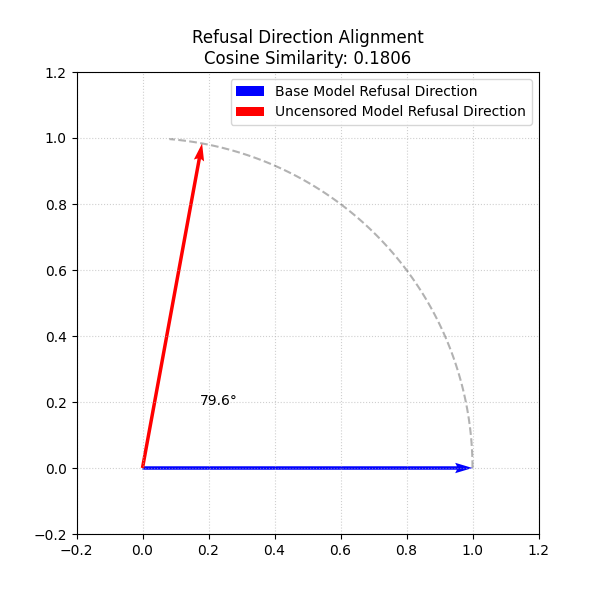
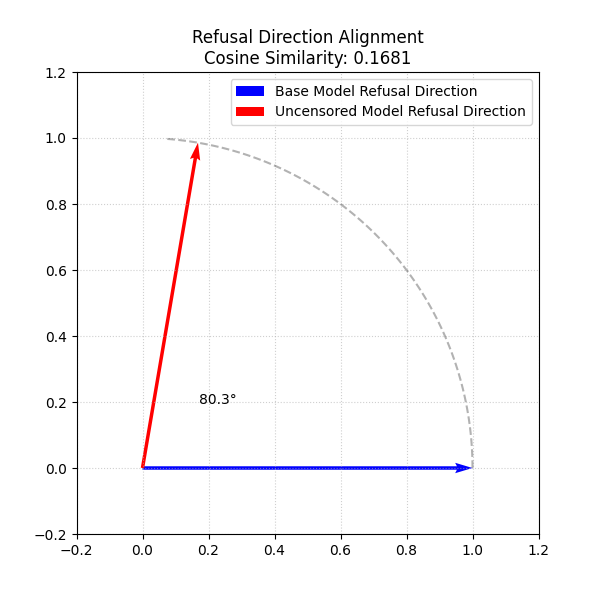
trained on N=260, moved vis into compare file

diff --git a/compare_refusal_directions.py b/compare_refusal_directions.py
@@ -1,37 +1,83 @@
 import torch
 import os
+import matplotlib.pyplot as plt
+import numpy as np
 
 def main():
     base_model_dir = "pipeline/runs/llama-2-7b-chat-hf/direction.pt"
     uncensored_model_dir = "pipeline/runs/llama2_7b_chat_uncensored/direction.pt"
+    output_image = "direction_comparison.png"
 
     print(f"Loading base refusal direction from: {base_model_dir}")
     if not os.path.exists(base_model_dir):
         print(f"Error: File not found: {base_model_dir}")
         return
-    base_direction = torch.load(base_model_dir)
+    base_direction = torch.load(base_model_dir, map_location='cpu')
 
     print(f"Loading uncensored refusal direction from: {uncensored_model_dir}")
     if not os.path.exists(uncensored_model_dir):
         print(f"Error: File not found: {uncensored_model_dir}")
         return
-    uncensored_direction = torch.load(uncensored_model_dir)
-
+    uncensored_direction = torch.load(uncensored_model_dir, map_location='cpu')
+    
     # Ensure they are on the same device and type
     device = torch.device("cpu")
     base_direction = base_direction.to(device)
     uncensored_direction = uncensored_direction.to(device)
-    
+
     # Check shapes
     if base_direction.shape != uncensored_direction.shape:
         print(f"Warning: Shapes mismatch: {base_direction.shape} vs {uncensored_direction.shape}")
         return
 
+    # Normalize vectors
+    base_direction = base_direction / base_direction.norm()
+    uncensored_direction = uncensored_direction / uncensored_direction.norm()
+
     # Compute cosine similarity
     # Dim=0 because they are 1D vectors [d_model]
-    similarity = torch.nn.functional.cosine_similarity(base_direction, uncensored_direction, dim=0)
+    cos_sim = torch.dot(base_direction, uncensored_direction).item()
+    
+    # Clip to avoid numerical errors slightly outside [-1, 1]
+    cos_sim = max(min(cos_sim, 1.0), -1.0)
+    
+    theta = np.arccos(cos_sim)
+    degrees = np.degrees(theta)
 
-    print(f"\nCosine Similarity: {similarity.item():.4f}")
+    print(f"\nCosine Similarity: {cos_sim:.4f}")
+    print(f"Angle: {degrees:.2f} degrees")
+    
+    # Visualization
+    # Vector A (Base) aligned with X-axis: (1, 0)
+    # Vector B (Uncensored) at angle theta: (cos(theta), sin(theta))
+    
+    v_base = np.array([1, 0])
+    v_uncensored = np.array([np.cos(theta), np.sin(theta)])
+    
+    plt.figure(figsize=(6, 6))
+    
+    # Plot unit circle arc for reference
+    angles = np.linspace(0, theta + 0.1, 100) # Draw a bit past the vector
+    plt.plot(np.cos(angles), np.sin(angles), 'k--', alpha=0.3)
+    
+    # Plot vectors
+    plt.quiver(0, 0, v_base[0], v_base[1], angles='xy', scale_units='xy', scale=1, color='blue', label='Base Model Refusal Direction')
+    plt.quiver(0, 0, v_uncensored[0], v_uncensored[1], angles='xy', scale_units='xy', scale=1, color='red', label='Uncensored Model Refusal Direction')
+    
+    # Annotate angle
+    mid_angle = theta / 2
+    dist = 0.3
+    plt.text(dist * np.cos(mid_angle), dist * np.sin(mid_angle), f"{degrees:.1f}°", color='black', ha='center')
+
+    plt.xlim(-0.2, 1.2)
+    plt.ylim(-0.2, 1.2)
+    plt.gca().set_aspect('equal', adjustable='box')
+    plt.grid(True, linestyle=':', alpha=0.6)
+    plt.legend()
+    plt.title(f"Refusal Direction Alignment\nCosine Similarity: {cos_sim:.4f}")
+    
+    plt.savefig(output_image)
+    print(f"Saved visualization to {output_image}")
 
 if __name__ == "__main__":
     main()

diff --git a/check_dataset_size.py b/check_dataset_size.py
@@ -1,0 +1,13 @@
+from dataset.load_dataset import load_dataset_split
+
+def main():
+    print("Loading datasets to check size...")
+    harmful_train = load_dataset_split(harmtype='harmful', split='train', instructions_only=True)
+    harmless_train = load_dataset_split(harmtype='harmless', split='train', instructions_only=True)
+    
+    print(f"Harmful Train Size: {len(harmful_train)}")
+    print(f"Harmless Train Size: {len(harmless_train)}")
+    print(f"Max N_INST_TRAIN: {min(len(harmful_train), len(harmless_train))}")
+
+if __name__ == "__main__":
+    main()

diff --git a/extract_new_refusal.py b/extract_new_refusal.py
@@ -10,7 +10,7 @@ from pipeline.submodules.generate_directions import get_mean_diff
 def main():
     # Configuration
     model_path = "georgesung/llama2_7b_chat_uncensored"
-    N_INST_TRAIN = 32
+    N_INST_TRAIN = 260 # specifies the number of instruction-response pairs (prompts) to sample from the dataset to compute the refusal direction. (1 -> 260)
     target_layer = 14
     target_pos_idx = -1 # The position index in the list of positions passed to get_mean_diff
     
